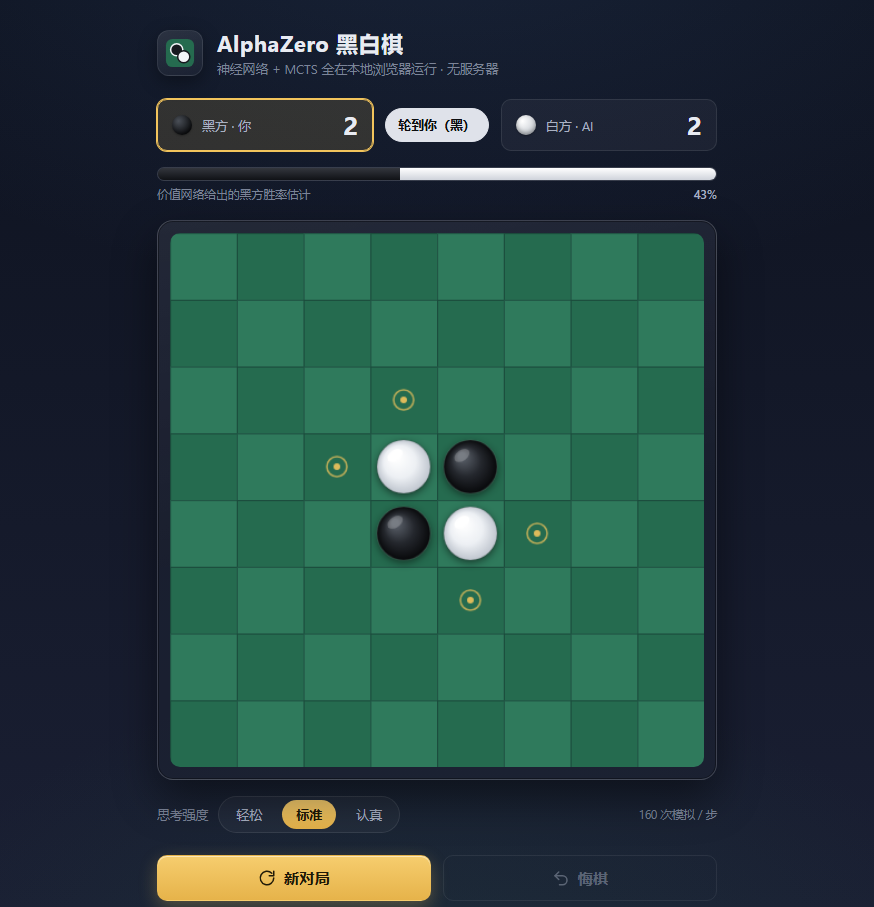
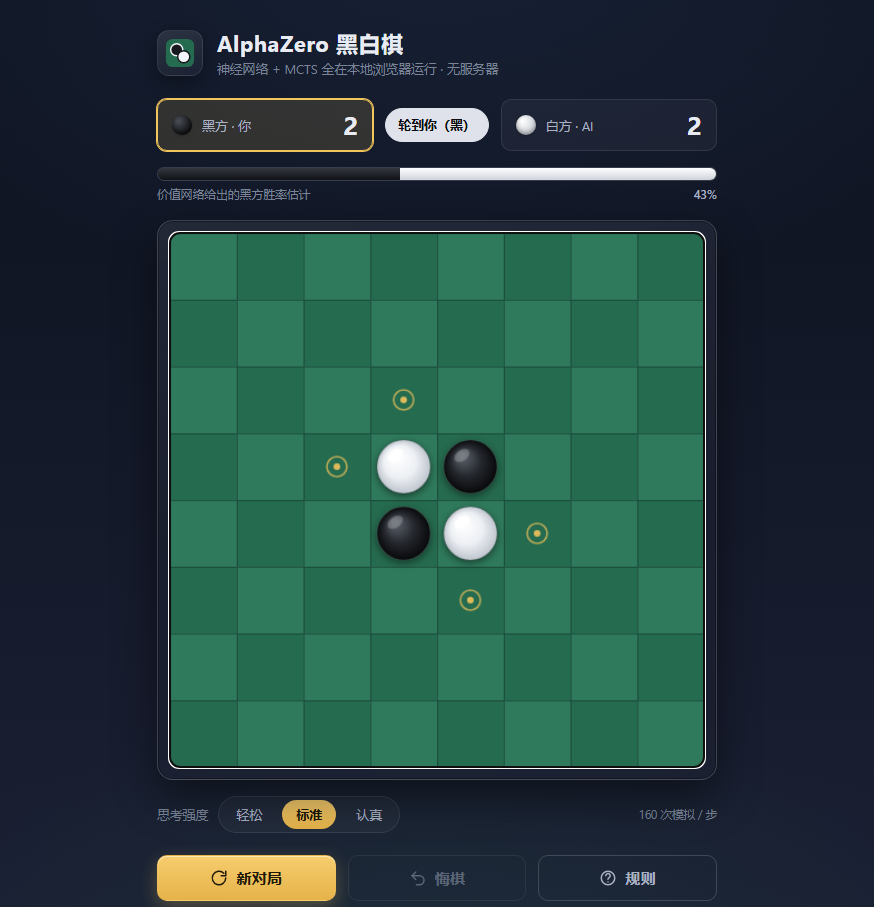
feat: 开局弹出游戏规则，支持随时重看

diff --git a/web/index.html b/web/index.html
@@ -85,6 +85,10 @@
                 <svg viewBox="0 0 24 24" fill="none" stroke="currentColor" stroke-width="2" stroke-linecap="round" stroke-linejoin="round" aria-hidden="true"><path d="M9 14 4 9l5-5"/><path d="M4 9h10a6 6 0 0 1 0 12h-4"/></svg>
                 悔棋
             </button>
+            <button class="btn ghost" id="btn-rules" type="button" aria-label="查看游戏规则">
+                <svg viewBox="0 0 24 24" fill="none" stroke="currentColor" stroke-width="2" stroke-linecap="round" stroke-linejoin="round" aria-hidden="true"><circle cx="12" cy="12" r="9"/><path d="M9.1 9a2.9 2.9 0 1 1 4.3 2.6c-.8.5-1.4 1-1.4 2"/><path d="M12 17h.01"/></svg>
+                规则
+            </button>
         </div>
 
         <p id="status" role="status" aria-live="polite"></p>
@@ -98,6 +102,33 @@
             <p class="meta">这个页面需要 JavaScript 才能运行本地推理。</p>
         </noscript>
     </main>
+
+    <!-- 开局规则：每次打开页面时先显示，点「开始对局」或按 Esc 关闭 -->
+    <div class="rules" id="rules" role="dialog" aria-modal="true" aria-labelledby="rules-title" hidden>
+        <div class="rules-card" role="document">
+            <p class="rules-kicker">开局必读</p>
+            <h2 id="rules-title">黑白棋（Othello）规则</h2>
+            <p class="rules-sub">夹住、翻转、占角 —— 30 秒看懂，然后开始。</p>
+
+            <ol class="rules-list">
+                <li><b>目标</b>：棋盘下满，或双方都无子可下时，棋子多的一方获胜。</li>
+                <li><b>落子</b>：你执黑先行。每一手必须夹住至少一枚白子（横、竖、斜都算），被夹住的棋子立刻翻成黑色。</li>
+                <li><b>跳过</b>：一方没有合法落点时自动跳过；双方都没有时对局结束。</li>
+                <li><b>读盘</b>：<span class="legend-dot legal" aria-hidden="true"></span>金色圆圈是你可以落子的位置，<span class="legend-dot last" aria-hidden="true"></span>金色小点是最近一手。</li>
+                <li><b>技巧</b>：四个角最稳；角旁边的 X 位、C 位容易被对手夺角，尽量少下。</li>
+                <li><b>操作</b>：点击棋盘落子；也可以用方向键移动光标、回车确认。「悔棋」会撤回你和 AI 的一整轮。</li>
+            </ol>
+
+            <p class="rules-note">
+                模型和搜索全部在你的浏览器里运行，没有服务器、不联网计算。
+                首次打开需先下载 4.3 MB 权重，之后使用浏览器缓存。
+            </p>
+
+            <div class="rules-actions">
+                <button class="btn primary" id="btn-rules-start" type="button">开始对局</button>
+            </div>
+        </div>
+    </div>
 
     <script src="engine.js"></script>
     <script src="net.js"></script>

diff --git a/web/style.css b/web/style.css
@@ -461,3 +461,121 @@ body {
 @media (prefers-reduced-motion: reduce) {
     .spinner { animation: none; }
 }
+
+/* ---------- 开局规则弹窗 ---------- */
+
+.rules {
+    position: fixed;
+    inset: 0;
+    z-index: 60;
+    display: flex;
+    align-items: center;
+    justify-content: center;
+    padding: 20px;
+    background: rgba(6, 9, 16, 0.72);
+    -webkit-backdrop-filter: blur(6px);
+    backdrop-filter: blur(6px);
+    overflow: auto;
+}
+
+/* 必须显式覆盖：上面的 display:flex 会盖掉 hidden 属性的 UA 样式 */
+.rules[hidden] { display: none; }
+
+.rules-card {
+    width: min(560px, 100%);
+    max-height: calc(100vh - 40px);
+    overflow: auto;
+    padding: 26px 26px 22px;
+    border: 1px solid var(--border-strong);
+    border-radius: 18px;
+    background:
+        linear-gradient(180deg, rgba(255, 255, 255, 0.05), rgba(255, 255, 255, 0.01) 40%),
+        #121826;
+    box-shadow: 0 30px 80px rgba(0, 0, 0, 0.6), inset 0 1px 0 rgba(255, 255, 255, 0.06);
+    animation: rules-in 0.22s cubic-bezier(0.22, 1, 0.36, 1);
+}
+
+@keyframes rules-in {
+    from { opacity: 0; transform: translateY(8px) scale(0.985); }
+    to { opacity: 1; transform: none; }
+}
+
+.rules-kicker {
+    margin: 0;
+    font-size: 11px;
+    font-weight: 700;
+    letter-spacing: 0.18em;
+    color: var(--accent);
+}
+
+.rules-card h2 {
+    margin: 6px 0 4px;
+    font-size: 22px;
+    letter-spacing: 0.4px;
+}
+
+.rules-sub {
+    margin: 0 0 18px;
+    font-size: 12.5px;
+    color: var(--text-dim);
+}
+
+.rules-list {
+    display: grid;
+    gap: 10px;
+    margin: 0;
+    padding-left: 20px;
+    font-size: 13.5px;
+    line-height: 1.65;
+    color: var(--text-mid);
+}
+
+.rules-list li::marker { color: var(--accent); }
+.rules-list b { color: var(--text-main); font-weight: 600; }
+
+.legend-dot {
+    display: inline-block;
+    vertical-align: -1px;
+    margin: 0 3px;
+}
+
+.legend-dot.legal {
+    width: 11px;
+    height: 11px;
+    border-radius: 50%;
+    border: 1.6px solid var(--accent);
+}
+
+.legend-dot.last {
+    width: 5px;
+    height: 5px;
+    border-radius: 50%;
+    background: var(--accent);
+}
+
+.rules-note {
+    margin: 16px 0 0;
+    padding-top: 14px;
+    border-top: 1px solid var(--border);
+    font-size: 11.5px;
+    line-height: 1.65;
+    color: var(--text-dim);
+}
+
+.rules-actions {
+    display: flex;
+    margin-top: 20px;
+}
+
+.rules-actions .btn { flex: 1; }
+
+@media (max-width: 460px) {
+    .rules { padding: 14px; }
+    .rules-card { padding: 20px 18px 18px; border-radius: 16px; }
+    .rules-card h2 { font-size: 19px; }
+    .rules-list { font-size: 13px; gap: 8px; }
+}
+
+@media (prefers-reduced-motion: reduce) {
+    .rules-card { animation: none; }
+}

diff --git a/web/app.js b/web/app.js
@@ -36,7 +36,8 @@
     hover: -1,
     kbCursor: 27,
     kbFocus: false,
-    lastSearch: null
+    lastSearch: null,
+    rulesOpen: false
   };
 
   // ---------- 绘制 ----------
@@ -78,7 +79,7 @@
   }
 
   function humanTurn() {
-    return !state.gameOver && !state.thinking && state.board.currentPlayer === BLACK;
+    return !state.rulesOpen && !state.gameOver && !state.thinking && state.board.currentPlayer === BLACK;
   }
 
   function drawBoard() {
@@ -387,6 +388,25 @@
     document.getElementById('thinking').hidden = true;
   }
 
+  // ---------- 开局规则 ----------
+
+  function showRules() {
+    state.rulesOpen = true;
+    state.hover = -1;
+    document.getElementById('rules').hidden = false;
+    var start = document.getElementById('btn-rules-start');
+    if (start && start.focus) start.focus();
+    scheduleDraw();
+  }
+
+  function hideRules() {
+    if (!state.rulesOpen) return;
+    state.rulesOpen = false;
+    document.getElementById('rules').hidden = true;
+    scheduleDraw();
+    if (canvas && canvas.focus) canvas.focus();
+  }
+
   // ---------- 交互 ----------
 
   function eventToIndex(e) {
@@ -462,6 +482,24 @@
 
     document.getElementById('btn-new').addEventListener('click', newGame);
     document.getElementById('btn-undo').addEventListener('click', undo);
+    document.getElementById('btn-rules').addEventListener('click', showRules);
+    document.getElementById('btn-rules-start').addEventListener('click', hideRules);
+
+    // 点遮罩空白处关闭；规则打开时把焦点圈在弹窗内
+    document.getElementById('rules').addEventListener('click', function (e) {
+      if (e.target === e.currentTarget) hideRules();
+    });
+    document.addEventListener('keydown', function (e) {
+      if (!state.rulesOpen) return;
+      if (e.key === 'Escape') {
+        e.preventDefault();
+        hideRules();
+      } else if (e.key === 'Tab') {
+        e.preventDefault();
+        var start = document.getElementById('btn-rules-start');
+        if (start && start.focus) start.focus();
+      }
+    });
 
     var chips = document.querySelectorAll('#difficulty-chips .chip');
     for (var i = 0; i < chips.length; i++) {
@@ -513,6 +551,7 @@
       (window.__OTHELLO_INLINE__ ? '单文件离线版' : 'sha256 ' + String(net.meta.sha256).slice(0, 8));
 
     newGame();
+    showRules();
   }
 
   // 供自动化验收脚本使用；不参与游戏逻辑，也不暴露任何外部能力

diff --git a/README.md b/README.md
@@ -22,6 +22,8 @@
 - **本地预览**：`python -m http.server 8765 --directory web` → <http://127.0.0.1:8765/>
 - **单文件离线版**：`node tools/build_single.mjs` → `dist/othello-offline.html`（约 5.8 MB，双击即玩，可微信直发）
 
+打开页面会先弹出一张规则卡片，点「开始对局」进入棋盘；之后随时可以点「规则」重看，按 Esc 或点遮罩也能关闭。
+
 权重由 `src/scripts/export_web_weights.py` 从 `models/alphazero_net.pth` 导出，JS 前向与 PyTorch 逐值对齐（容差 2e-4）。本机实测单次推理约 5 ms，160 次模拟约 1 秒，不需要 GPU。部署、更新模型与常见问题见 [部署与分享](docs/DEPLOY.md)。
 
 ## 🏗 技术架构
